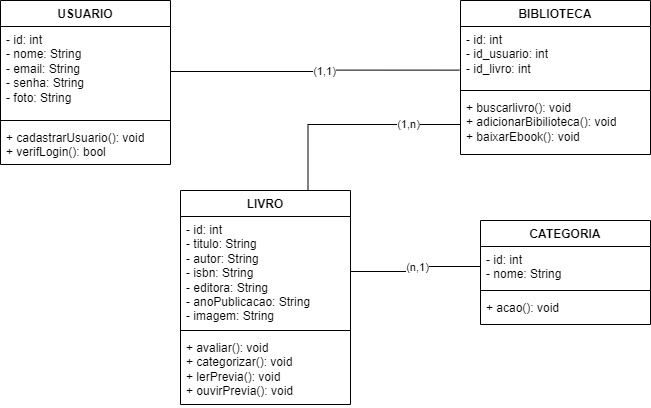
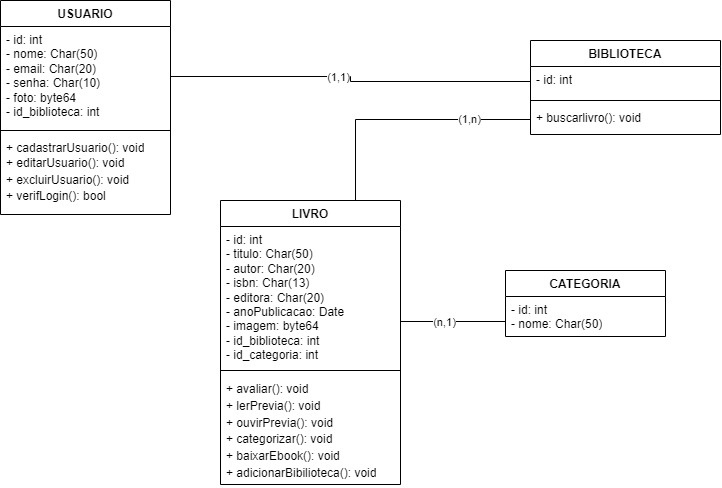
Ajustes finais
- Alteração das imagens dos diagramas
- Exclusão de imagens desnecessárias
- Ajustes no texto docs 5 e 7

diff --git a/docs/05-Arquitetura da Solução.md b/docs/05-Arquitetura da Solução.md
@@ -27,24 +27,26 @@ As referências abaixo irão auxiliá-lo na geração do artefato “Esquema Rel
 <img src="./img/Esquema relacional.jpg">
 
 ## Modelo Físico
+
 A tabela abaixo representa o modelo físico do banco de dados SQLite da aplicação.
 ![Modelo Físico](img/modelo-fisico.png)
 
-O arquivo contendo os scripts de criação das tabelas do banco de dados SQLite está localizado na pasta src/db:  <a href="../src/db/DbServices.js">src/db</a>
+O arquivo contendo os scripts de criação das tabelas do banco de dados SQLite está localizado na pasta src/db: <a href="../src/db/DbServices.js">src/db</a>
 
 ## Tecnologias Utilizadas
-|Função    | Tecnologia  | 
-|------------|-----------------------------------------|
-| Linguagem | JavaScript | 
-| Framework | ReactNative | 
-| Bibliotecas | React Native Paper | 
-| IDE | Visual Studio Code e Expo Dev | 
-| Ferramentas  Wireframes| Figma | 
-| Ferramentas de Comunicação| Microsoft Teams, GitHub, Whatsapp | 
-| Ferramentas de Gestão de Projeto| Github Projects | 
-| Ferramentas de versionamento| Github Desktop |
-| Ferramentas de diagramação| Draw.io |
-| Banco de dados | SQLite |
+
+| Função                                | Tecnologia                        |
+| ------------------------------------- | --------------------------------- |
+| Linguagem                             | JavaScript                        |
+| Framework                             | ReactNative                       |
+| Bibliotecas                           | React Native Paper                |
+| IDE                                   | Visual Studio Code e Expo Dev     |
+| Ferramentas Wireframes                | Figma                             |
+| Ferramentas de Comunicação            | Microsoft Teams, GitHub, Whatsapp |
+| Ferramentas de Gestão de Projeto      | Github Projects                   |
+| Ferramentas de versionamento          | Github Desktop                    |
+| Ferramentas para criação de diagramas | Draw.io                           |
+| Banco de dados                        | SQLite                            |
 
 O usuário interage com a interface do usuário, que é construída utilizando React Native. Quando o usuário executa uma ação na interface, como clicar em um botão, uma requisição é enviada para o banco de dados. O banco de dados, processa a requisição, conforme necessário, e executa a query. Após o processamento, o banco de dados envia uma resposta de volta para o React Native frontend. O React Native frontend recebe a resposta e atualiza a interface do usuário conforme necessário para refletir o resultado da ação do usuário.
 

diff --git a/docs/07-Programação de Funcionalidades.md b/docs/07-Programação de Funcionalidades.md
@@ -1,7 +1,6 @@
 # Programação de Funcionalidades
 
-* Nesta seção, você encontrará uma visão detalhada das telas desenvolvidas para cada funcionalidade do sistema.
-
+Nesta seção, você encontrará uma visão detalhada das telas desenvolvidas para cada funcionalidade do sistema.
 
 ## Tela de Login
 
@@ -27,7 +26,6 @@
     </td>
   </tr>
 </table>
-
 
 ## Tela de Cadastro
 
